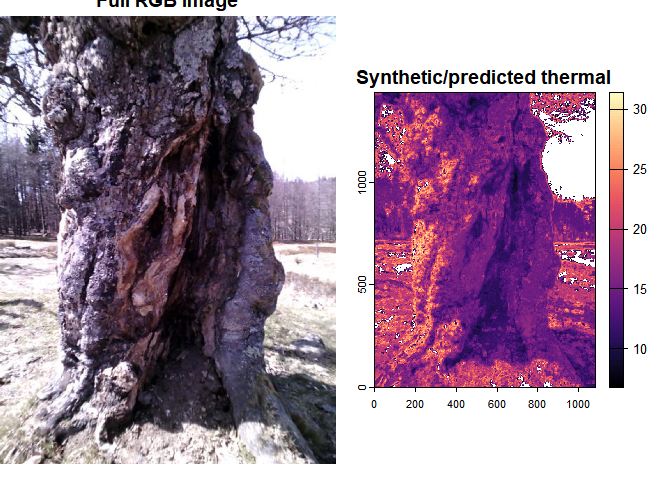
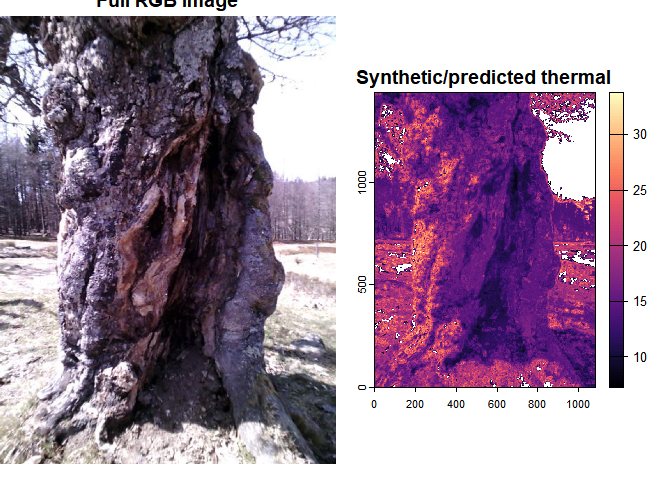
Updated readme files

diff --git a/README.md b/README.md
@@ -13,12 +13,12 @@ João Gonçalves
   - [Package description](#package-description)
   - [Working with RGB imagery](#working-with-rgb-imagery)
   - [Working with thermal data](#working-with-thermal-data)
-  - [Generating synthetic/predicted thermal
-    images](#generating-synthetic/predicted-thermal-images)
-  - [Working with regions-of-interest in the image
-    (ROI)](#working-with-regions-of-interest-in-the-image-(roi))
-    - [Drawing ROIs with the `terra`
-      package](#drawing-rois-with-the-%60terra%60-package)
+  - [Generating synthetic or predicted thermal
+    images](#generating-synthetic-or-predicted-thermal-images)
+  - [Working with regions-of-interest
+    ROIs](#working-with-regions-of-interest-rois)
+    - [Drawing ROIs with the terra
+      package](#drawing-rois-with-the-terra-package)
 
 ## Package description
 
@@ -84,20 +84,34 @@ plotRGB(thumb)
 Now let’s check the full RGB image that is contained in FLIR’s metadata:
 
 ``` r
-rgb_hr <- flir_rgb_to_rast(image_path, exiftool_path, crop=FALSE)
+rgb_hr <- flir_rgb_to_rast(image_path, exiftool_path, crop = FALSE)
 
-plotRGB(rgb_hr)
+print(rgb_hr)
+```
+
+    ## class       : SpatRaster 
+    ## dimensions  : 1440, 1080, 3  (nrow, ncol, nlyr)
+    ## resolution  : 1, 1  (x, y)
+    ## extent      : 0, 1080, 0, 1440  (xmin, xmax, ymin, ymax)
+    ## coord. ref. :  
+    ## source(s)   : memory
+    ## names       : red, green, blue 
+    ## min values  :   0,     0,    0 
+    ## max values  : 255,   255,  255
+
+``` r
+plotRGB(rgb_hr, main = "Full RGB (1440x1080")
 ```
 
 ![](README_files/figure-gfm/plot-full-rgb-1.png)<!-- -->
 
-And now the cropped RGB which matches the extent and resolution of
-thermal image:
+And now the cropped RGB which matches the size and resolution of thermal
+image (i.e., 640x480):
 
 ``` r
-rgb_lr <- flir_rgb_to_rast(image_path, exiftool_path, crop=TRUE)
+rgb_lr <- flir_rgb_to_rast(image_path, exiftool_path, crop = TRUE)
 
-plotRGB(rgb_lr)
+plotRGB(rgb_lr, main = "Cropped RGB (640x480)")
 ```
 
 ![](README_files/figure-gfm/plot-crop-rgb-1.png)<!-- -->
@@ -107,7 +121,7 @@ trunk (focus target).
 
 ## Working with thermal data
 
-Start by extract the thermal data (in degrees Celsius):
+Start by extracting the thermal data (in degrees Celsius):
 
 ``` r
 temp <- flir_raw_to_thermal(image_path, exiftool_path)
@@ -140,10 +154,12 @@ summary(temp)
     ##  Max.   : 42.08
 
 ``` r
-plot_temp_rast(temp, palette="magma")
+par(mfrow=c(1, 2))
+plot_temp_rast(temp, palette = "magma", main = "Thermal cropped")
+plotRGB(rgb_lr, main = "RGB cropped")
 ```
 
-![](README_files/figure-gfm/raw-to-thermal-1.png)<!-- -->
+![](README_files/figure-gfm/raw-to-thermal-print-1.png)<!-- -->
 
 Now let’s remove outliers in the thermal image that seem to more
 frequently occur for the lower portion of the temperature distribution
@@ -154,9 +170,9 @@ all the remaining values of the upper part of the distribution
 unchanged.
 
 ``` r
-temp_out_rm <- remove_outliers(temp, pmin = 3.5, pmax=100)
+temp_out_rm <- remove_outliers(temp, pmin = 3.5, pmax = 100)
 
-plot_temp_rast(temp_out_rm, palette="magma")
+plot_temp_rast(temp_out_rm, palette = "magma")
 ```
 
 ![](README_files/figure-gfm/thermal-rm-outliers-plot-1.png)<!-- -->
@@ -172,7 +188,7 @@ plot_temp_rast(temp_out_rm, palette="Spectral")
 
 ![](README_files/figure-gfm/plot-spectral-palette-1.png)<!-- -->
 
-## Generating synthetic/predicted thermal images
+## Generating synthetic or predicted thermal images
 
 The `ThermalRaster` package currently provides methods to generate
 **synthetic or predicted thermal data**. This enables to gain more
@@ -224,9 +240,9 @@ rf_sup_res <- rf_thermal_from_rgb(
     ## |-> Calculating features for the high-resolution RGB image ...
     ## Done.
     ## 
-    ## Predicting.. Progress: 62%. Estimated remaining time: 19 seconds.
+    ## Predicting.. Progress: 72%. Estimated remaining time: 11 seconds.
     ## Done.
-    ## [Run Time: 2 minutes 20 seconds ]
+    ## [Run Time: 2 minutes 1 seconds ]
 
 Let’s check the RF model output:
 
@@ -247,8 +263,8 @@ print(rf_sup_res$rf_mod)
     ## Target node size:                 5 
     ## Variable importance mode:         none 
     ## Splitrule:                        variance 
-    ## OOB prediction error (MSE):       23.84671 
-    ## R squared (OOB):                  0.6982008
+    ## OOB prediction error (MSE):       22.97386 
+    ## R squared (OOB):                  0.7058247
 
 Now, let’s plot the predicted image considering the train/cropped RGB
 (with outliers removed: \< 3.5% percentile):
@@ -283,11 +299,14 @@ plot_temp_rast(pred_term_full_outlrm, palette = "magma", main="Synthetic/predict
 
 ![](README_files/figure-gfm/plot-full-rgb-pred-rf-1.png)<!-- -->
 
-## Working with regions-of-interest in the image (ROI)
+Notice how the RF model can reasonably predict the temperature of pixels
+fully outside of the training sample/conditions!
+
+## Working with regions-of-interest ROIs
 
 Basically there are two ways to currently
 
-### Drawing ROIs with the `terra` package
+### Drawing ROIs with the terra package
 
 The objective of this demo is to check the distribution of temperature
 values between different micro-habitats in the tree bole (the bark and
@@ -351,7 +370,7 @@ writeVector(tree_samps, filename = "./inst/extdata/QUEROB1_EINBRGB_BWWG4662_ROIs
 ```
 
 Now let’s compare the distribution of temperature values for the bark
-and the cavity:
+and the cavity for an oak tree:
 
 ``` r
 tree_samps <- vect("./inst/extdata/QUEROB1_EINBRGB_BWWG4662_ROIs_bole.json")
@@ -396,7 +415,7 @@ ext_values %>%
 
 Average and std-deviation of temperature values (deg.C)
 
-Now for a different image:
+Now let’s use a different image, this time for beech tree:
 
 ``` r
 beech_image_path <- system.file("extdata", "BEECH1_EOUTTREERGB_ILAC9031.JPG", package = "ThermalRaster")
@@ -449,12 +468,13 @@ beech_ext_values %>%
 
 Average and std-deviation of temperature values (deg.C)
 
-Make a plot comparing the two distributions:
+Make a plot comparing the distributions for the two tree micro-habitats:
 
 ``` r
 g1 <- ggplot(ext_values, aes(x=temp_c, fill=type)) + 
       geom_density(alpha=0.5) + 
       xlab(expression("Temperature " ( degree*C))) +
+      ylab("Density") + 
       theme_bw() + 
       labs(title = "Oak") + 
       theme(text=element_text(size=16))
@@ -469,6 +489,7 @@ g2 <- ggplot(beech_ext_values, aes(x=temp_c, fill=type)) +
       geom_density(alpha=0.5) + 
       labs(title = "Beech") + 
       xlab(expression("Temperature " ( degree*C))) + 
+      ylab("Density") + 
       theme_bw() + 
       theme(text=element_text(size=16))
 
